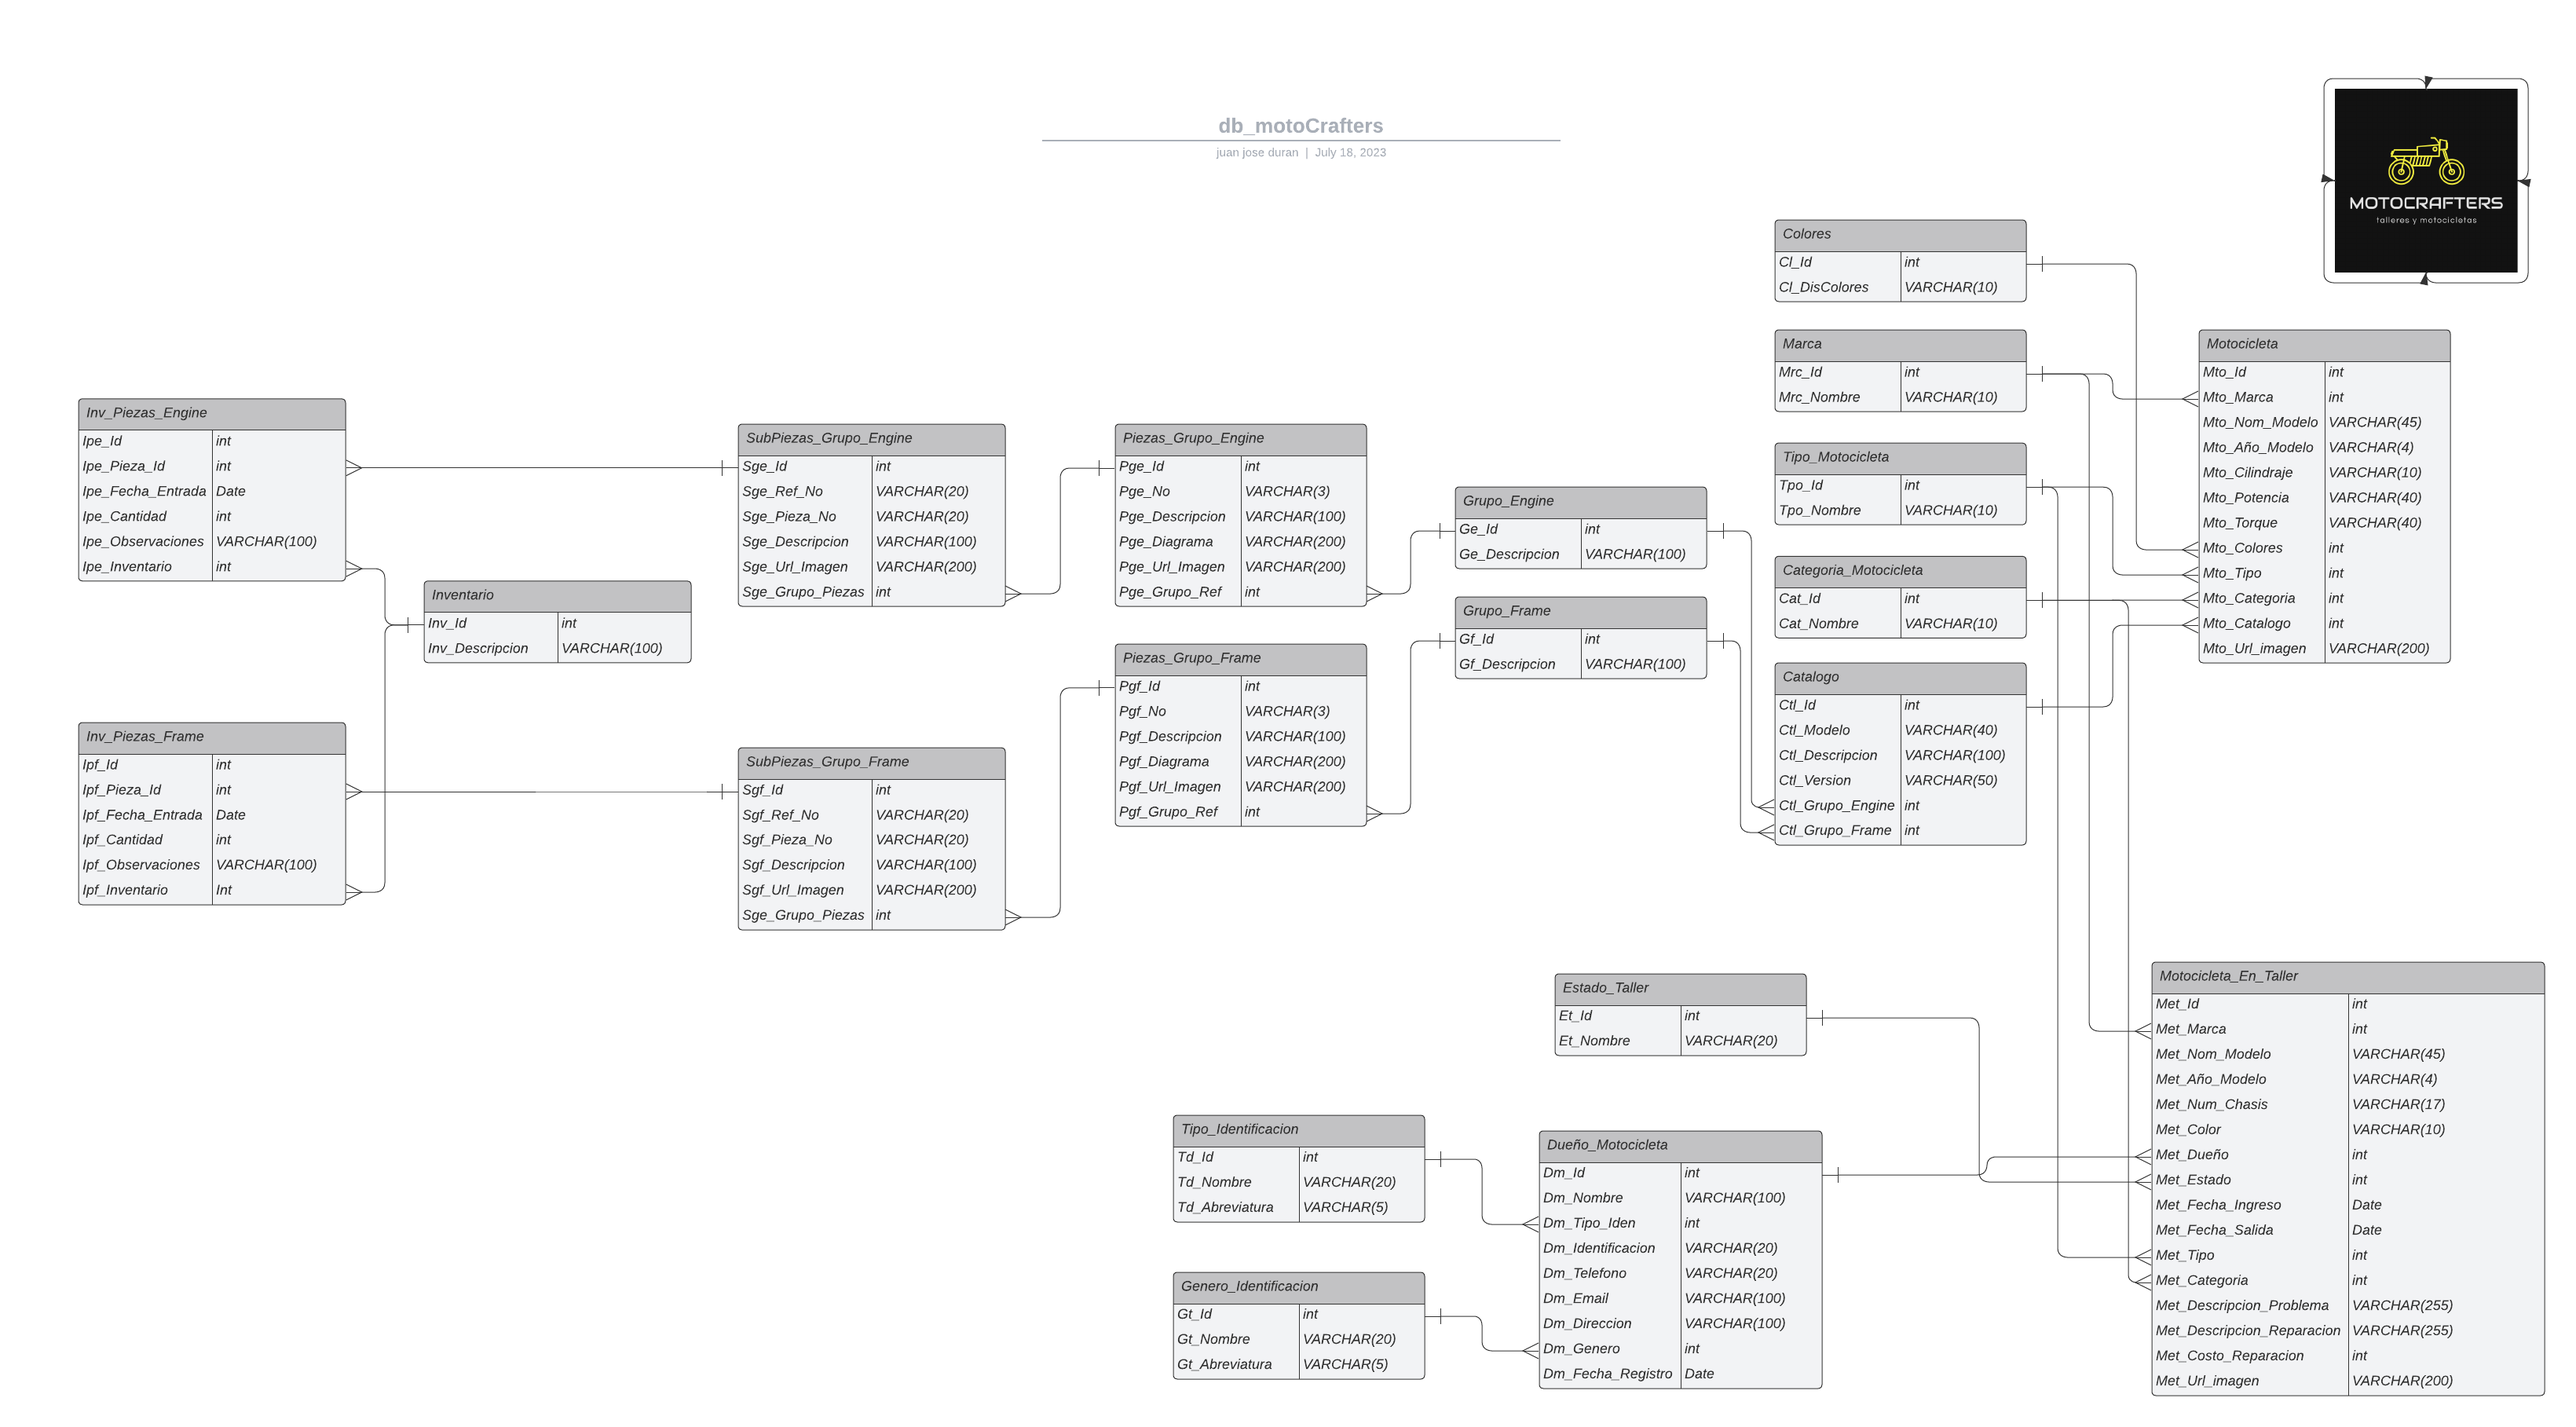
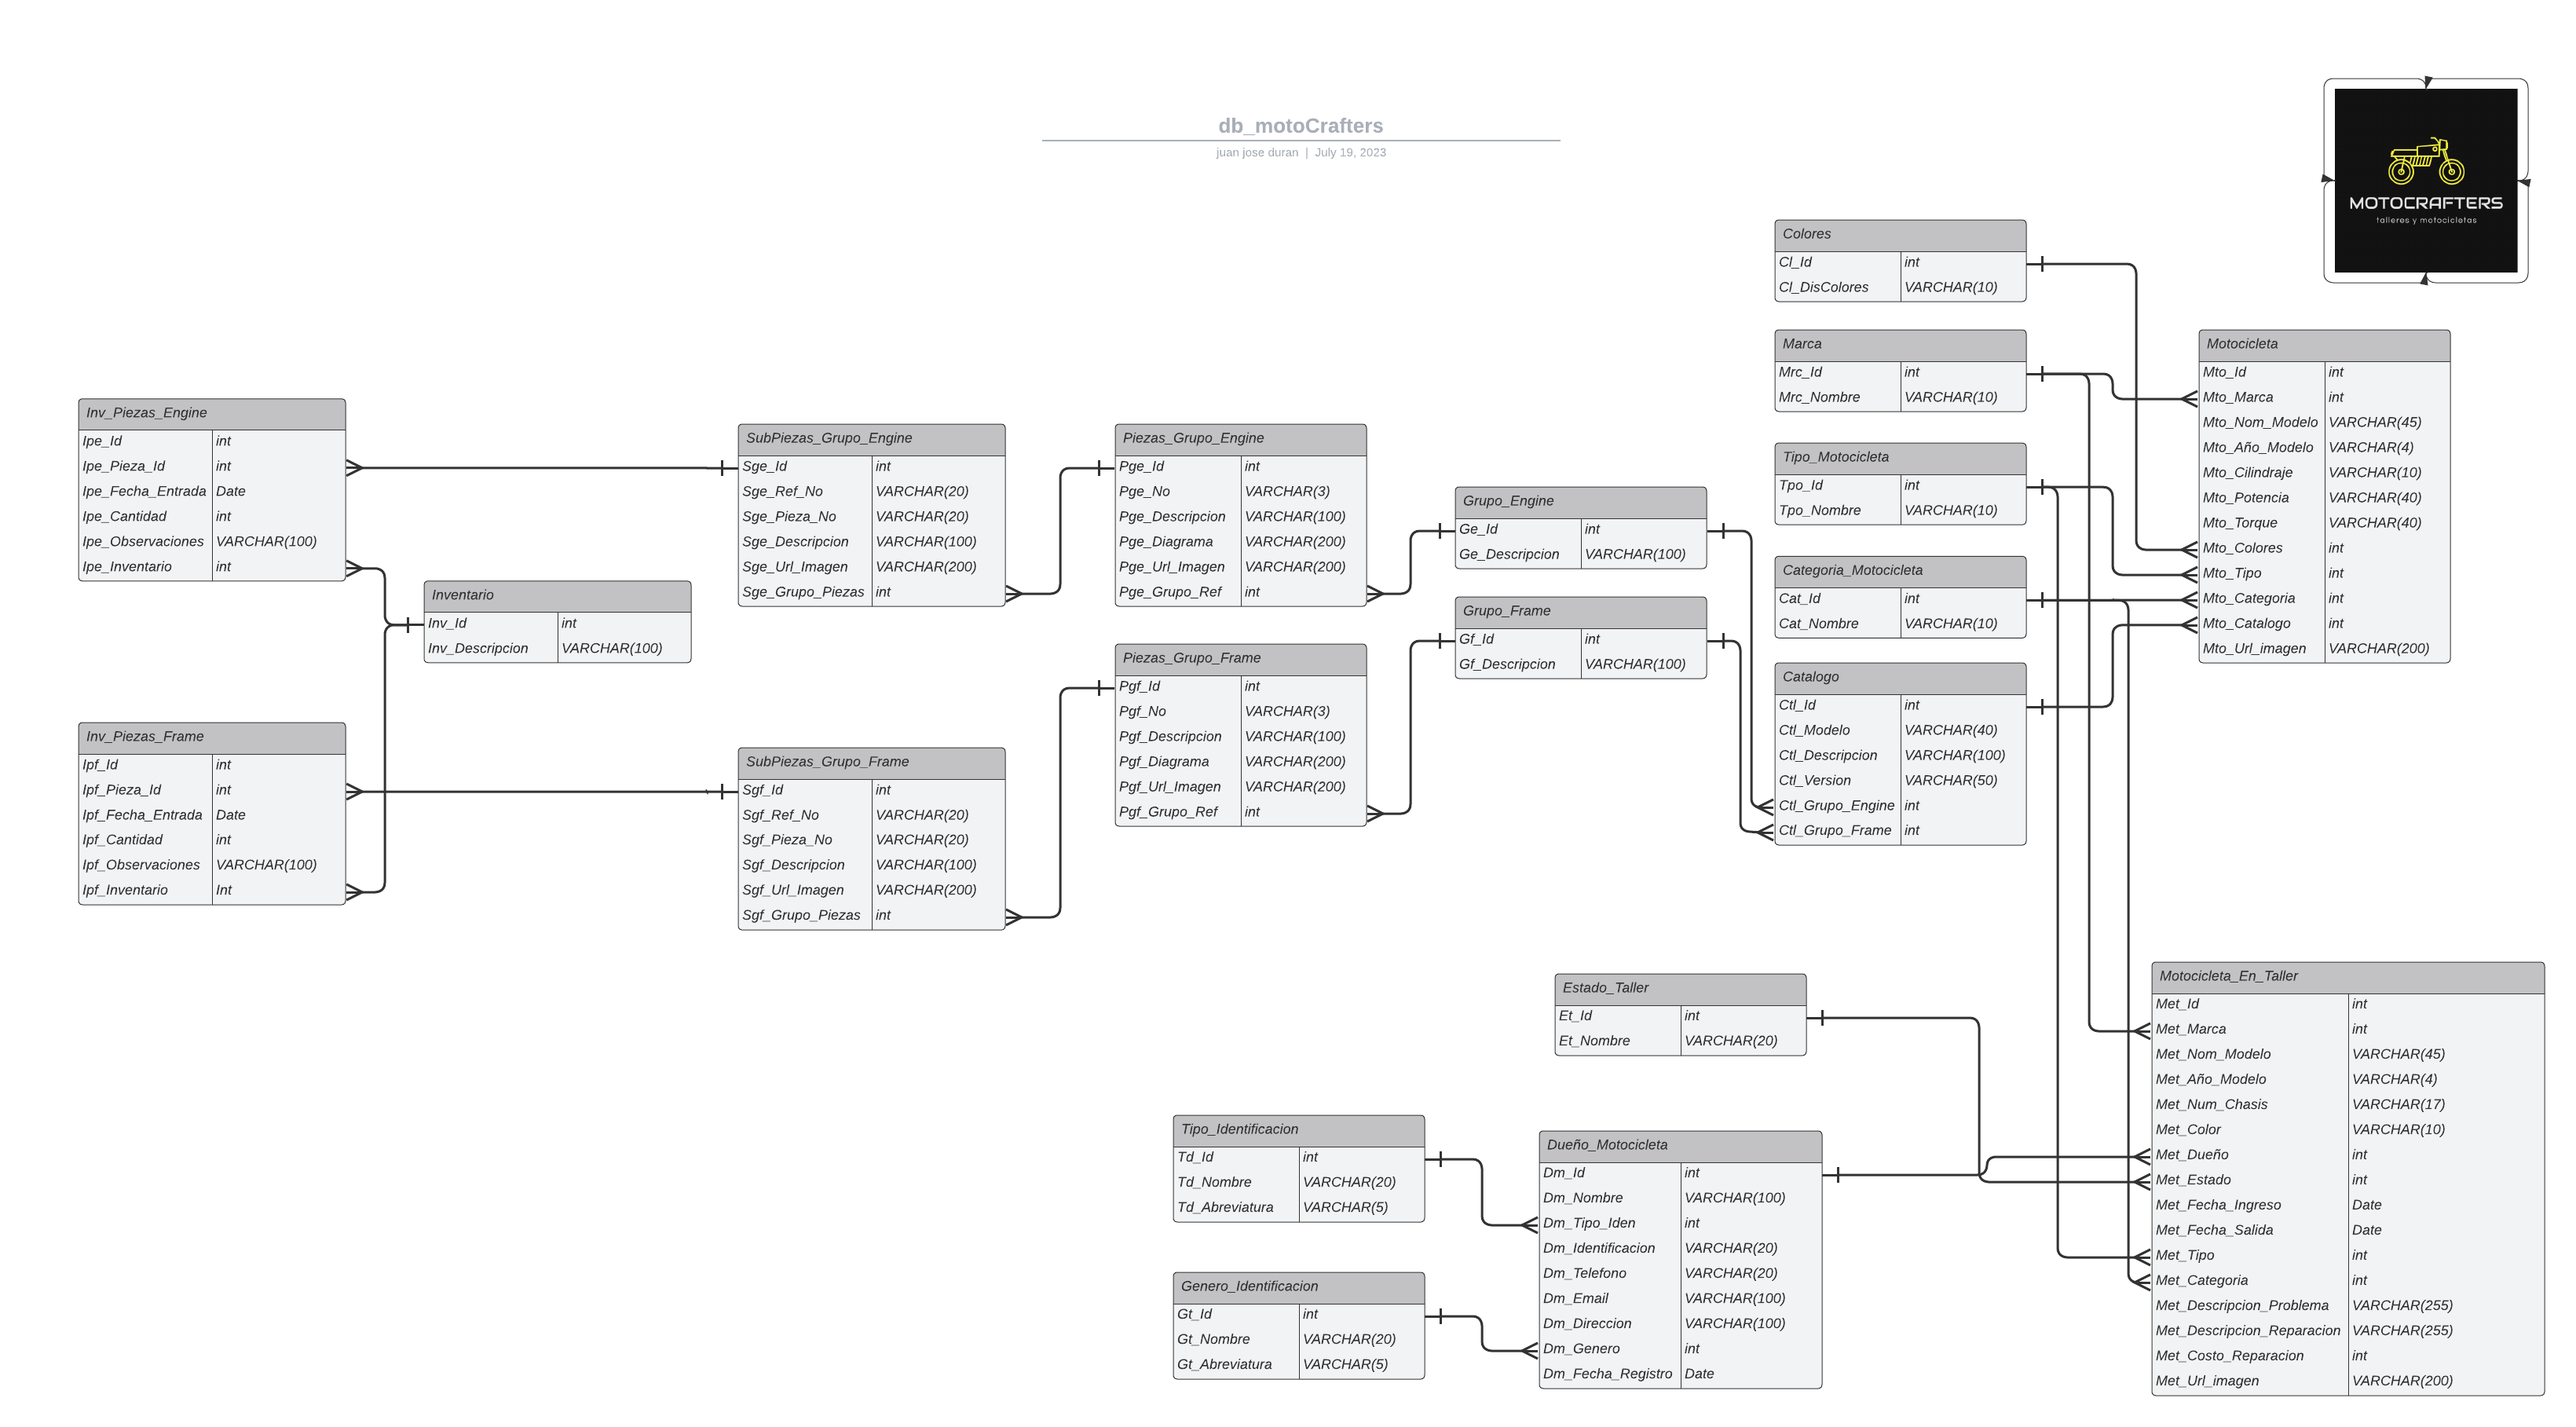
feat: :zap: Actualizacion del diagrama de entidad relacion, solucionando pequeños problemas
Se corrigue una id incorrecta en subpiezas grupo Frame, ademas se sube un diagrama con colores en las foreign keys para mejorar la comprension de las mismas. Y finalmente, se actualiza el progreso realizado del proyecto.

diff --git a/README.md b/README.md
@@ -26,11 +26,15 @@ Además, el apartado de registro tiene como objetivo agilizar el proceso de ingr
 4. Diseñar una interfaz de usuario intuitiva y amigable que facilite la navegación y el acceso a las diferentes funcionalidades de la página web.
 5. Permitir el registro de motos en el taller, incluyendo detalles como marca, modelo, número de serie, año, problemas que presente y estado de la misma, etc.
 
-## **🏁🌌 Diagrama Entidad Relacion 🌌🏁**
+## **⚙🚀 Diagrama Entidad Relacion ⚙🚀**
 
 ![](https://github.com/JuanJoseDuranRinconCAMPUS2/MotoCrafters/blob/main/imagenes/motoCrafters_db.png)
 
-## **🏁🌌 Trabajo para el Viernes 🌌🏁**
+## **✨⚙ Diagrama Con Colores ⚙✨**
+
+![](https://github.com/JuanJoseDuranRinconCAMPUS2/MotoCrafters/blob/main/imagenes/motoCrafters_db.png)
+
+## **🎉🥽 Trabajo para el Lunes 🥽🎉**
 
 Creacion la base de datos con las respectivas tablas y relaciones ademas creacion del crud para todo el apartado del catalogo de la motocicleta
 
@@ -55,8 +59,8 @@ Creacion la base de datos con las respectivas tablas y relaciones ademas creacio
 3. ### Diseño de la base de datos:
 
    - [x] Crear una estructura de base de datos que permita almacenar la información necesaria para partes, motos y el inventario.
-   - [ ] Diseñar tablas para partes, motos y transacciones de inventario.
-   - [ ] Establecer relaciones adecuadas entre las tablas para garantizar la integridad de los datos.
+   - [x] Diseñar tablas para partes, motos y transacciones de inventario.
+   - [x] Establecer relaciones adecuadas entre las tablas para garantizar la integridad de los datos.
 
 4. ### Desarrollo del backend con Node.js y SQL:
 
